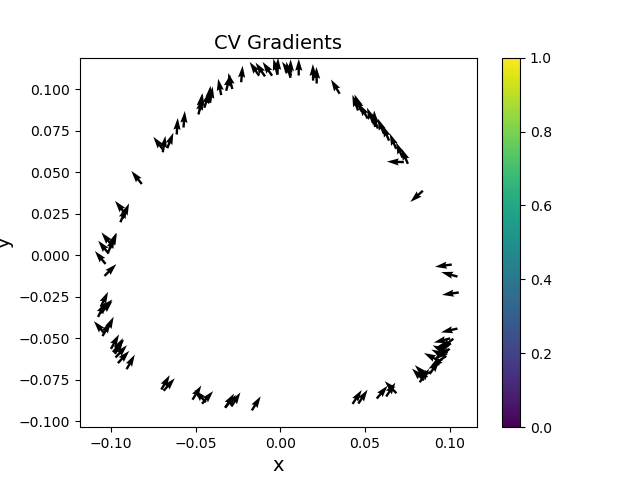
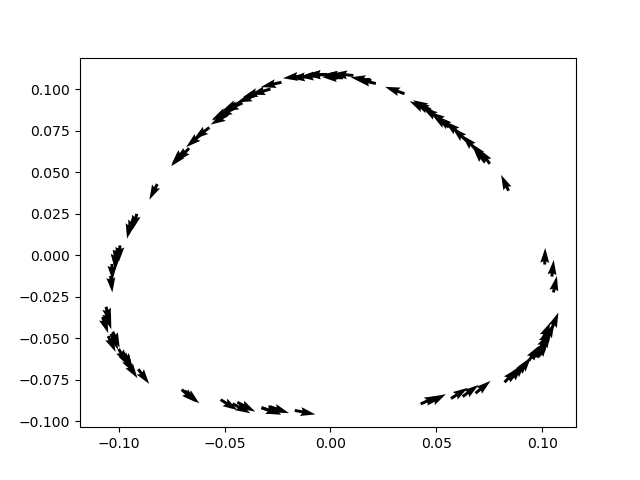
CV alignment experiment

diff --git a/learn/manifold_learning/align_experiment.py b/learn/manifold_learning/align_experiment.py
@@ -1,4 +1,5 @@
 # All imports
+import uuid
 import torch
 import numpy as np
 import matplotlib.pyplot as plt
@@ -43,11 +44,13 @@ normals = torch.Tensor(normals).to(device)
 # set up the dataloader
 dnet_dataset = DnetData(featurized_data=feature_data, diff_map=diff_map, laplacian=laplacian, eigvals=eigvals)
 dnet_data_loader = dnet_dataloader(dnet_dataset, batch_size=training_configs['batch_size'])
-
+breakpoint()
 # now set up the architecture
-dnet_encoder = standard_4_layer_dnet_tanh_encoder(input_dim=training_configs['input_dim'], encoder_dim=training_configs['encoder_dim'])
-dnet_decoder = standard_4_layer_dnet_tanh_decoder(input_dim=training_configs['input_dim'], encoder_dim=training_configs['encoder_dim'])
-
+dnet_encoder = standard_4_layer_dnet_tanh_encoder(input_dim=training_configs['input_dim'], encoder_dim=training_configs['encoder_dim']).to(device)
+dnet_decoder = standard_4_layer_dnet_tanh_decoder(input_dim=training_configs['input_dim'], encoder_dim=training_configs['encoder_dim']).to(device)
+init_sum_enc = sum([torch.sum(p).item() for p in dnet_encoder.parameters() if p.requires_grad])
+init_sum_dec = sum([torch.sum(p).item() for p in dnet_decoder.parameters() if p.requires_grad])
+breakpoint()
 # get optimizer 
 optimizers = {'encoder': torch.optim.Adam(dnet_encoder.parameters(), lr=training_configs['learning_rate'], weight_decay=training_configs['weight_decay'], betas=(0.9, 0.9)),
               'decoder': torch.optim.Adam(dnet_decoder.parameters(), lr=training_configs['learning_rate'], weight_decay=training_configs['weight_decay'], betas=(0.9, 0.9))}
@@ -56,12 +59,14 @@ schedulers = {'encoder': torch.optim.lr_scheduler.StepLR(optimizers['encoder'], 
               'decoder': torch.optim.lr_scheduler.StepLR(optimizers['decoder'], step_size=training_configs['step_size'], gamma=training_configs['gamma'])}
 
 # get the losses 
+breakpoint()
 matching_loss_fn = MatchingLoss()
 laplacian_loss_fn = LaplacianLoss()
 def orthogonality_loss(normals, outputs): 
     loss = torch.mean(torch.abs(torch.sum(normals * outputs, dim=-1))**2)
     return loss
 
+breakpoint()
 # set up the training loop
 # define training step
 def train_step(model_encoder, model_decoder, optimizers, loss_wts, feature_batch, diff_map_batch, laplacian_batch, eigvals_batch, normals_batch):
@@ -83,7 +88,7 @@ def train_step(model_encoder, model_decoder, optimizers, loss_wts, feature_batch
     reconstructions = model_decoder(outputs.float())
 
     # get the losses
-    matching_loss = matching_loss_fn(reconstructions, feature_batch)
+    matching_loss = matching_loss_fn(outputs, diff_map_batch)
     laplacian_loss = laplacian_loss_fn(laplacian_batch, eigvals_batch, outputs)
     
     cvs = torch.arctan2(outputs[...,1], outputs[...,0])
@@ -103,17 +108,20 @@ def train_step(model_encoder, model_decoder, optimizers, loss_wts, feature_batch
     optimizers['encoder'].step()
     optimizers['decoder'].step()
 
-    return loss, matching_loss, laplacian_loss, orthogonality_loss_value
+    return loss, matching_loss, laplacian_loss, reconstruction_loss, orthogonality_loss_value
 
 def train(model_encoder, model_decoder, training_configs, data_loader, optimizers, schedulers, num_epochs):
     loss_curve = []
     for epoch in range(num_epochs):
         for idx, (indices, feature_batch, diff_map_batch, laplacian_batch, eigvals_batch) in enumerate(data_loader):
             normals_batch = normals[indices]
-            loss, matching_loss, laplacian_loss, orthogonality_loss = train_step(model_encoder, model_decoder, \
+            loss, matching_loss, laplacian_loss, reconstruction_loss, orthogonality_loss = train_step(model_encoder, model_decoder, \
                 optimizers, training_configs['loss_weights'], \
                     feature_batch, diff_map_batch, laplacian_batch, eigvals_batch, normals_batch)
-            loss_curve.append({'loss': loss.item(), 'matching_loss': matching_loss.item(), 'laplacian_loss': laplacian_loss.item(), 'orthogonality_loss': orthogonality_loss.item()})
+            loss_curve.append({'loss': loss.item(), 'matching_loss': matching_loss.item(), \
+                               'laplacian_loss': laplacian_loss.item(), \
+                                'reconstruction_loss': reconstruction_loss.item(), \
+                                'orthogonality_loss': orthogonality_loss.item()})
             if idx % 100 == 0:
                 print(f'Epoch [{epoch+1}/{num_epochs}], Step [{idx+1}/{len(data_loader)}], Loss: {loss.item():.4f}')
         # Update the learning rate
@@ -122,19 +130,39 @@ def train(model_encoder, model_decoder, training_configs, data_loader, optimizer
     return model_encoder, model_decoder, loss_curve
 
 # train the model
+breakpoint()
 training = True
 if training:
-    model_encoder_reg, model_decoder_reg, loss_curve = train(dnet_encoder, dnet_decoder, training_configs, dnet_data_loader, optimizers, schedulers, training_configs['num_epochs'])
+    dnet_encoder, dnet_decoder, loss_curve = train(dnet_encoder, dnet_decoder, \
+                                                   training_configs, dnet_data_loader, optimizers, schedulers,\
+                                                   training_configs['num_epochs'])
 
+breakpoint()
+final_sum_enc = sum([torch.sum(p).item() for p in dnet_encoder.parameters() if p.requires_grad])
+final_sum_dec = sum([torch.sum(p).item() for p in dnet_decoder.parameters() if p.requires_grad])
+print(f"Sum of encoder parameters before and after training: {init_sum_enc}, {final_sum_enc}")
+print(f"Sum of decoder parameters before and after training: {init_sum_dec}, {final_sum_dec}")
 
-# visualize the loss curve 
+breakpoint()
+# generate random key and save loss data
+import uuid
+key = uuid.uuid4().hex
+filename = f'loss_curve_{key}.npy'
+np.save(filename, np.array(loss_curve))
+
+# save the model
+training_configs['loss_curve_location'] = filename
+save_autoencoder(dnet_encoder, dnet_decoder, training_configs, 'align_experiment_dnet_autoencoder')
+
+# 
+# # visualize the loss curve 
 plt.figure()
 plt.plot([item['loss'] for item in loss_curve], label='Total Loss', c='black', linewidth=2)
 plt.plot([item['matching_loss'] for item in loss_curve], label='Matching Loss', c='red', linewidth=2)
 plt.plot([item['orthogonality_loss'] for item in loss_curve], label='Orthogonality Loss', c='green', linewidth=2)
 plt.xlabel('Training Step', fontsize=14)
 plt.ylabel('Loss', fontsize=14)
-plt.ylim((0,1.0))
+# plt.ylim((0,1.0))
 plt.legend()
 plt.savefig('loss_curve.png')
 plt.close()
@@ -156,4 +184,6 @@ plt.xlabel('x', fontsize=14)
 plt.ylabel('y', fontsize=14)
 plt.title('CV Gradients', fontsize=14)
 plt.savefig('cv_gradients.png')
+plt.close()
 # breakpoint()
+

diff --git a/learn/manifold_learning/scratch.py b/learn/manifold_learning/scratch.py
@@ -1,0 +1,69 @@
+# All imports
+import uuid
+import torch
+import numpy as np
+import matplotlib.pyplot as plt
+import sys
+import os
+
+sys.path.insert(0, os.path.abspath(os.path.join(os.path.dirname(__file__), '../../src')))
+import diffusion_map as diffusion_map
+from sklearn.neighbors import NearestNeighbors
+from feature_maps import IdentityLayer, RecenteringLayer, GramMatrixLayer, \
+                        RecenterBondLayer, OrthogonalChangeOfBasisBatched
+from _compute_normals import compute_pointcloud_normals
+from _dnet_datasets import load_training_configs
+from _dnet_architectures import standard_4_layer_dnet_tanh_encoder, standard_4_layer_dnet_tanh_decoder
+from _dnet_datasets import DnetData, dnet_dataloader
+from _dnet_datasets import save_autoencoder
+from _dnet_loss import MatchingLoss, LaplacianLoss
+
+# get the config 
+device = torch.device('cuda' if torch.cuda.is_available() else 'cpu')
+# device = torch.device('mps' if torch.backends.mps.is_available() else 'cpu')
+print(f"Using {device} device")
+
+config_path = '/export/ssule25/CV_learning_butane/learn/manifold_learning/align_experiment_dnet_autoencoder/model_20251216_154905/'
+training_configs = load_training_configs(config_path+f'training_configs.yaml')
+
+# get the dmap and get ground truth normals 
+
+dmap_path = training_configs['datapath']
+dmap_data = np.load(dmap_path, allow_pickle=True)
+
+feature_data = dmap_data['feature_data']
+diff_map = dmap_data['diff_map']
+reference_CV = dmap_data['reference_CV']
+laplacian = dmap_data['laplacian']
+eigvals = dmap_data['eigvals']
+# normals, _ = compute_pointcloud_normals(diff_map, method='2d', k_neighbors=100)
+# normals = normals / np.linalg.norm(normals, axis=1, keepdims=True)
+# normals = torch.Tensor(normals).to(device)
+breakpoint()
+# load the autoencoder
+# now set up the architecture
+dnet_encoder = standard_4_layer_dnet_tanh_encoder(input_dim=training_configs['input_dim'], encoder_dim=training_configs['encoder_dim']).to(device)
+dnet_decoder = standard_4_layer_dnet_tanh_decoder(input_dim=training_configs['input_dim'], encoder_dim=training_configs['encoder_dim']).to(device)
+
+# load the autoencoder
+dnet_encoder.load_state_dict(torch.load(config_path + 'model_encoder_state_dict.pth', map_location=device))
+dnet_decoder.load_state_dict(torch.load(config_path + 'model_decoder_state_dict.pth', map_location=device))
+
+breakpoint()
+# set to eval mode
+dnet_encoder.eval()
+dnet_outputs = dnet_encoder(torch.Tensor(feature_data).to(device).float()).requires_grad_(True)
+cvs = torch.arctan2(dnet_outputs[...,1], dnet_outputs[...,0])
+cv_gradients = torch.autograd.grad(cvs.sum(), dnet_outputs, retain_graph=True)[0]
+cv_gradients = cv_gradients.cpu().detach().numpy()
+# normalize the cv gradients
+cv_gradients = cv_gradients / np.linalg.norm(cv_gradients, axis=1, keepdims=True)
+plt.figure()
+dnet_outputs = dnet_outputs.cpu().detach().numpy()
+plt.scatter(dnet_outputs[::100,0], dnet_outputs[::100,1], c=reference_CV[::100], cmap='hsv', alpha=0.5, s=1.0)
+# plt.quiver(diff_map[::100,0], diff_map[::100,1], cv_gradients[::100,0], cv_gradients[::100,1], scale=100, scale_units='xy')
+plt.xlabel('x', fontsize=14)
+plt.ylabel('y', fontsize=14)
+plt.title('CV Gradients', fontsize=14)
+plt.savefig('cv_gradients.png')
+plt.close()
